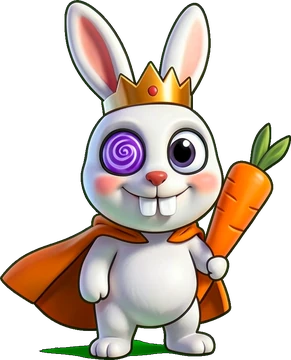
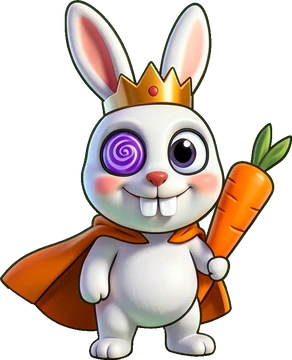
alfa 4a9517f: Rumble v2: los dibujos de las cartas, todos a la misma altura y centrados; Crazy

diff --git a/alfa/index.html b/alfa/index.html
@@ -12,10 +12,10 @@
 <link rel="preconnect" href="https://fonts.googleapis.com">
 <link rel="preconnect" href="https://fonts.gstatic.com" crossorigin>
 <link rel="stylesheet" href="https://fonts.googleapis.com/css2?family=Baloo+2:wght@600;700;800&family=Luckiest+Guy&display=swap">
-<link rel="stylesheet" href="core/css/base.css?v=5d612bd">
-<link rel="stylesheet" href="biblioteca/tienda.css?v=5d612bd">
-<link rel="stylesheet" href="novedades/ventana.css?v=5d612bd">
-<link rel="stylesheet" href="biblioteca/votos.css?v=5d612bd">
+<link rel="stylesheet" href="core/css/base.css?v=4a9517f">
+<link rel="stylesheet" href="biblioteca/tienda.css?v=4a9517f">
+<link rel="stylesheet" href="novedades/ventana.css?v=4a9517f">
+<link rel="stylesheet" href="biblioteca/votos.css?v=4a9517f">
 <style>
   /* la entrada de la web: una tarjeta por juego, con los colores y las letras de core */
   body { overflow: auto; touch-action: auto; align-items: flex-start; background-repeat: no-repeat; background-attachment: fixed; }
@@ -63,7 +63,7 @@
 </style>
 </head>
 <body>
-<script src="menu.js?v=5d612bd" data-base="" data-core="1" data-pagina=""></script>
+<script src="menu.js?v=4a9517f" data-base="" data-core="1" data-pagina=""></script>
 <div class="nov-fondo" id="novedades" hidden>
   <div class="nov-caja" role="dialog" aria-modal="true" aria-labelledby="nov-titulo">
     <div class="nov-cabeza"><h2 class="ol" id="nov-titulo">NOVEDADES</h2><p id="nov-sub"></p></div>
@@ -372,8 +372,8 @@
   </section>
   <p class="note" id="pie-fansof">Fans Of™ · © 2026 Arkioner y Pepins · MicroBlizz · Todos los derechos reservados</p>
 </main>
-<script src="core/js/nucleo.js?v=0-a1082.5d612bd"></script>
-<script src="core/js/novedades.js?v=5d612bd"></script>
+<script src="core/js/nucleo.js?v=0-a1083.4a9517f"></script>
+<script src="core/js/novedades.js?v=4a9517f"></script>
 <script>
 // La cuenta de la web es la misma de los juegos (core/js/sistema/cuenta.js, mismo navegador = misma sesión). Aquí no hay partida que subir.
 const AJUSTES = { id: 'web', guardado: 'fansof-web' }, SAVE_KEY = AJUSTES.guardado, SAVE = {};
@@ -382,7 +382,7 @@ const HOOKS = {};
 function hook(name, fn) { (HOOKS[name] = HOOKS[name] || []).push(fn); }
 function fire(name, ...a) { let out = ''; for (const fn of HOOKS[name] || []) { const r = fn(...a); if (typeof r === 'string') out += r; } return out; }
 </script>
-<script src="core/js/sistema/cuenta.js?v=5d612bd"></script>
+<script src="core/js/sistema/cuenta.js?v=4a9517f"></script>
 <script>NUCLEO.idiomaSolo({ en: ['core/idioma/en-raiz.js', 'novedades/en.js', 'biblioteca/en.js','games/rumble/idioma/en-7.js', 'games/td/idioma/en-2.js', 'games/survivors/idioma/en.js', 'games/crush/idioma/en-raiz.js', 'games/jump/idioma/en-raiz.js', 'games/taxi/idioma/en-raiz.js', 'games/dark/idioma/en-raiz.js', 'games/nova/idioma/en-raiz.js', 'games/nova/idioma/en-raiz-2.js', 'demos/beams/idioma/en-raiz.js', 'demos/snakes/idioma/en-raiz.js', 'demos/merge/idioma/en-raiz.js', 'demos/swipe/idioma/en-raiz.js', 'demos/pop/idioma/en-raiz.js', 'demos/vikings/idioma/en-raiz.js', 'demos/goose/idioma/en-raiz.js', 'demos/asalto/idioma/en-raiz.js', 'demos/auto/idioma/en-raiz.js', 'demos/shelter/idioma/en-raiz.js', 'demos/soccer/idioma/en-raiz.js', 'demos/air/idioma/en-raiz.js', 'demos/basement/idioma/en-raiz.js', 'demos/zombies/idioma/en-raiz.js', 'games/island/idioma/en-raiz.js', 'demos/rumble-3d/idioma/en-raiz.js', 'demos/roguelite/idioma/en-raiz.js', 'demos/tactics-advance/idioma/en-raiz.js', 'games/rouflage/idioma/en-raiz.js', 'demos/dungeons/idioma/en-raiz.js', 'games/karts/idioma/en-raiz.js', 'demos/recruit/idioma/en-raiz.js', 'demos/terminal-shock/idioma/en-raiz.js', 'games/ratkov/idioma/en-raiz.js'] })</script>
 <script>
 // La versión y las novedades salen de los archivos de cada juego, así que esta página nunca se queda atrás.
@@ -408,14 +408,14 @@ const fail = id => () => {
 };
 
 </script>
-<script src="core/js/proximamente.js?v=5d612bd"></script>
-<script src="novedades/ventana.js?v=5d612bd"></script>
-<script src="biblioteca/tienda.js?v=5d612bd"></script>
-<script src="core/js/sistema/beta.js?v=5d612bd"></script>
-<script src="biblioteca/cuenta-web.js?v=5d612bd"></script>
-<script src="biblioteca/votos.js?v=5d612bd"></script>
-<script src="biblioteca/alfa.js?v=5d612bd"></script>
-<script src="core/js/sistema/analitica.js?v=5d612bd"></script>
-<script src="pie.js?v=5d612bd" defer></script>
+<script src="core/js/proximamente.js?v=4a9517f"></script>
+<script src="novedades/ventana.js?v=4a9517f"></script>
+<script src="biblioteca/tienda.js?v=4a9517f"></script>
+<script src="core/js/sistema/beta.js?v=4a9517f"></script>
+<script src="biblioteca/cuenta-web.js?v=4a9517f"></script>
+<script src="biblioteca/votos.js?v=4a9517f"></script>
+<script src="biblioteca/alfa.js?v=4a9517f"></script>
+<script src="core/js/sistema/analitica.js?v=4a9517f"></script>
+<script src="pie.js?v=4a9517f" defer></script>
 </body>
 </html>

diff --git a/alfa/demos/rumble-v2/js/arte-v2.js b/alfa/demos/rumble-v2/js/arte-v2.js
@@ -56,17 +56,32 @@ const V2 = (() => {
 
   // cartas, retratos y pantalla de título: si hay imagen, se dibuja la imagen a la misma altura
   const drawVectorOriginal = drawVector;
+  // la parte con dibujo de una imagen (sin el aire transparente de alrededor), en sus píxeles; se calcula una vez
+  const cajas = new WeakMap();
+  function cajaVisible(img) {
+    if (cajas.has(img)) return cajas.get(img);
+    const w = img.width, h = img.height, cv = document.createElement('canvas'); cv.width = w; cv.height = h;
+    const x = cv.getContext('2d'); x.drawImage(img, 0, 0); const a = x.getImageData(0, 0, w, h).data;
+    let x0 = w, y0 = h, x1 = -1, y1 = -1;
+    for (let j = 0; j < h; j++) for (let i = 0; i < w; i++) if (a[(j * w + i) * 4 + 3] > 24) { if (i < x0) x0 = i; if (i > x1) x1 = i; if (j < y0) y0 = j; if (j > y1) y1 = j; }
+    const caja = x1 < 0 ? { x: 0, y: 0, w, h } : { x: x0, y: y0, w: x1 - x0 + 1, h: y1 - y0 + 1 };
+    cajas.set(img, caja); return caja;
+  }
+  // un dibujo pintado, de pie en (x, y) y centrado: todos con la misma altura h para que ninguno salga diminuto ni cortado
+  // (los muy anchos, como la mechavaca, se encogen para no salirse por los lados)
+  function dibujaAjustado(c, img, x, y, h, flip) {
+    const b = cajaVisible(img), k = Math.min(h / b.h, (h * CARTA_ANCHO_MAX) / b.w);
+    c.save(); c.imageSmoothingQuality = 'high'; c.translate(x, y); c.scale(flip, 1);
+    c.drawImage(img, b.x, b.y, b.w, b.h, -b.w * k / 2, -b.h * k, b.w * k, b.h * k); c.restore();
+  }
+  const CARTA_ANCHO_MAX = 1.35;   // ancho máximo del dibujo respecto a su alto
   drawVector = function (c, key, x, y, h, flip = 1) {
     const fr = IMG['frente/' + key];
-    if (fr) {   // de frente: centrado en x, de pie en y, sin voltear (aunque el original lo volteara)
-      const ih = h * 1.08, iw = fr.width * ih / fr.height;
-      c.save(); c.imageSmoothingQuality = 'high'; c.drawImage(fr, x - iw / 2, y - ih, iw, ih); c.restore();
-      return;
-    }
+    if (fr) return dibujaAjustado(c, fr, x, y, h, 1);   // de frente: centrado y sin voltear (aunque el original lo volteara)
     const sp = SPR[key];
     if (!sp || !sp.v2) return drawVectorOriginal(c, key, x, y, h, flip);
-    const top = TYPES[key] ? TYPES[key].top : TOPS[key];
-    const sc = h / (top || sp.ay);
+    if (TYPES[key]) return dibujaAjustado(c, sp.c, x, y, h, flip);   // personajes: la misma altura para todos
+    const top = TOPS[key], sc = h / (top || sp.ay);
     c.save(); c.translate(x, y); c.scale(sc * flip, sc); c.drawImage(sp.c, -sp.ax, -sp.ay, sp.wd, sp.ht); c.restore();
   };
 
@@ -107,5 +122,5 @@ const V2 = (() => {
   pideFondo('animales|mb');
   carga('puente', () => { if (typeof READY !== 'undefined' && READY) BRIDGE_LAYER = buildBridges(); });
 
-  return { SPRITES, FONDOS, IMG };
+  return { SPRITES, FONDOS, IMG, dibujaAjustado };
 })();

diff --git a/alfa/demos/rumble-v2/js/animar-v2.js b/alfa/demos/rumble-v2/js/animar-v2.js
@@ -94,14 +94,18 @@ const V2A = (() => {
     }
   };
 
-  // cartas, retratos y título: el primer fotograma del quieto mirando a la derecha
-  const drawVectorAntes = drawVector;
+  // cartas, retratos y título: el retrato de frente si lo tiene (lo pinta arte-v2.js); si no, el primer fotograma del quieto,
+  // ajustado como los demás (misma altura, centrado: V2.dibujaAjustado)
+  const drawVectorAntes = drawVector, marco = {};
   drawVector = function (c, key, x, y, h, flip = 1) {
     const D = V2_ANIM[key];
-    if (!D || !HOJA[key]) return drawVectorAntes(c, key, x, y, h, flip);
-    const top = TYPES[key] ? TYPES[key].top : TOPS[key], k = h / top * escala(key, D), lado = flip < 0 ? 'izq' : 'der';
-    const [cw, ch] = D.celda, [px, py] = D.pies[lado] || D.pies.der, f = fila(D, lado, 'quieto');
-    c.drawImage(HOJA[key], 0, f * ch, cw, ch, x - px * k, y - py * k, cw * k, ch * k);
+    if (!D || !HOJA[key] || V2.IMG['frente/' + key]) return drawVectorAntes(c, key, x, y, h, flip);
+    const lado = flip < 0 ? 'izq' : 'der', id = key + '-' + lado;
+    if (!marco[id]) {
+      const [cw, ch] = D.celda, cv = document.createElement('canvas'); cv.width = cw; cv.height = ch;
+      cv.getContext('2d').drawImage(HOJA[key], 0, fila(D, lado, 'quieto') * ch, cw, ch, 0, 0, cw, ch); marco[id] = cv;
+    }
+    V2.dibujaAjustado(c, marco[id], x, y, h, 1);
   };
 
   const ver = '?v=' + encodeURIComponent(NUCLEO.version || '0');

diff --git a/alfa/games/rouflage/index.html b/alfa/games/rouflage/index.html
@@ -10,7 +10,7 @@
 <link rel="preconnect" href="https://fonts.googleapis.com">
 <link rel="preconnect" href="https://fonts.gstatic.com" crossorigin>
 <link rel="stylesheet" href="https://fonts.googleapis.com/css2?family=Baloo+2:wght@600;700;800&family=Luckiest+Guy&display=swap">
-<script src="../../core/js/nucleo.js?v=0.2.75-a1082.5d612bd"></script>
+<script src="../../core/js/nucleo.js?v=0.2.75-a1083.4a9517f"></script>
 <script>NUCLEO.estilos('../../core/css/base.css', '../../core/css/menus.css', '../../core/css/menus-extra.css')</script>
 <script>NUCLEO.estilos('estilo.css', 'estilo-taller.css', 'estilo-pantallas.css', 'estilo-pvp.css', 'estilo-armario.css', 'estilo-menus.css', 'estilo-misiones.css', 'estilo-escenario.css', 'estilo-votos.css', 'estilo-gacha.css', 'estilo-compra.css', 'estilo-fin.css', 'estilo-talentos.css', 'estilo-chat.css', 'estilo-titulo.css', 'estilo-tienda.css', 'estilo-barras.css', 'estilo-tarjetas.css', 'estilo-barra.css', 'estilo-sala-viva.css', 'estilo-obra.css', 'estilo-ayuda.css', 'estilo-pintura.css', 'estilo-carga.css')</script>      <!-- la intro, la última: pisa el #carga de estilo.css (antes iba en línea dentro de #carga) -->
 </head>

diff --git a/alfa/demos/rumble-v2/index.html b/alfa/demos/rumble-v2/index.html
@@ -18,7 +18,7 @@
 <!-- core/js/nucleo.js carga lo común y el juego. LA VERSIÓN SE ESCRIBE SOLO AQUÍ, en su ?v= -->
 <!-- GENERADO por herramientas/rumble_v2.py desde games/rumble/index.html: no editar a mano -->
 <script>try { const u = new URL(location.href); if (u.searchParams.get('nube') !== '0') { u.searchParams.set('nube', '0'); history.replaceState(null, '', u); } } catch (e) { /* sin dirección */ }</script>
-<script src="../../core/js/nucleo.js?v=0.9.166-a1082.5d612bd"></script>
+<script src="../../core/js/nucleo.js?v=0.9.166-a1083.4a9517f"></script>
 <script>NUCLEO.estilos('../../core/css/menus.css', '../../games/rumble/css/estilos-partida.css', '../../games/rumble/css/estilos-extra.css', '../../games/rumble/css/arena.css', '../../core/css/biblioteca.css', '../../games/rumble/css/facciones-y-jefes.css', '../../core/css/clasificacion.css', '../../games/rumble/css/frases.css', '../../games/rumble/css/mitica.css', '../../games/rumble/css/paletas.css')</script>
 
 </head>

diff --git a/alfa/games/karts/index.html b/alfa/games/karts/index.html
@@ -8,7 +8,7 @@
 <meta name="description" content="Fans of Karts (juego): carreras de karts en pixel art de consola portátil con los líderes de Fans of Rumble. Tres pistas, seis pilotos, objetos con mala idea y Microblizz, que ha comprado la carrera.">
 <link rel="icon" type="image/png" href="img/favicon.png">
 <link rel="apple-touch-icon" href="img/icon-192.png">
-<script src="../../core/js/nucleo.js?v=0.7.24-a1082.5d612bd"></script>
+<script src="../../core/js/nucleo.js?v=0.7.24-a1083.4a9517f"></script>
 <script>NUCLEO.estilos('../../core/css/base.css', '../../core/css/menus.css', '../../core/css/menus-tienda.css', '../../core/css/menus-extra.css', 'css/tienda.css', 'css/pvp.css')</script>
 <link rel="stylesheet" href="https://fonts.googleapis.com/css2?family=Baloo+2:wght@600;700;800&family=Luckiest+Guy&display=swap">
 <style>

diff --git a/alfa/games/dark/index.html b/alfa/games/dark/index.html
@@ -12,7 +12,7 @@
 <link rel="stylesheet" href="https://fonts.googleapis.com/css2?family=Baloo+2:wght@600;700;800&family=Luckiest+Guy&family=Press+Start+2P&family=Pixelify+Sans:wght@400;600;700&display=swap">
 <link rel="stylesheet" href="css/dark.css?v=0.2.4">
 <!-- Prototipo: no usa NUCLEO (tiene su propia partida guardada). Carga de core el arte, la música, los efectos y las cifras del Rumble.
-     VERSIÓN para desplegar.py (que la busca así): nucleo.js?v=0.2.7-a1082.5d612bd' (aquí solo se anota; súbela junto al ?v= de los scripts). -->
+     VERSIÓN para desplegar.py (que la busca así): nucleo.js?v=0.2.7-a1083.4a9517f' (aquí solo se anota; súbela junto al ?v= de los scripts). -->
 </head>
 <body>
 <canvas id="cv" aria-label="Mazmorra"></canvas>

diff --git a/alfa/games/rumble/index.html b/alfa/games/rumble/index.html
@@ -16,7 +16,7 @@
 <link rel="preconnect" href="https://fonts.gstatic.com" crossorigin>
 <link rel="stylesheet" href="https://fonts.googleapis.com/css2?family=Baloo+2:wght@600;700;800&family=Luckiest+Guy&display=swap">
 <!-- core/js/nucleo.js carga lo común y el juego. LA VERSIÓN SE ESCRIBE SOLO AQUÍ, en su ?v= -->
-<script src="../../core/js/nucleo.js?v=0.9.167-a1082.5d612bd"></script>
+<script src="../../core/js/nucleo.js?v=0.9.167-a1083.4a9517f"></script>
 <script>NUCLEO.estilos('../../core/css/menus.css', 'css/estilos-partida.css', 'css/estilos-extra.css', 'css/arena.css', '../../core/css/biblioteca.css', 'css/facciones-y-jefes.css', '../../core/css/clasificacion.css', 'css/frases.css', 'css/mitica.css', 'css/paletas.css')</script>
 
 </head>

diff --git a/alfa/games/jump/index.html b/alfa/games/jump/index.html
@@ -12,7 +12,7 @@
 <link rel="preconnect" href="https://fonts.gstatic.com" crossorigin>
 <link rel="stylesheet" href="https://fonts.googleapis.com/css2?family=Baloo+2:wght@600;700;800&family=Luckiest+Guy&display=swap">
 <!-- ?v= es la versión del juego (la misma en la web y en la app): súbela al publicar y pon su entrada en js/novedades.js -->
-<script src="../../core/js/nucleo.js?v=0.3.25-a1082.5d612bd"></script>
+<script src="../../core/js/nucleo.js?v=0.3.25-a1083.4a9517f"></script>
 <script>NUCLEO.estilos('../../core/css/base.css', '../../core/css/menus.css')</script>
 <style>
 /* Fans of Jump: un solo canvas a la resolución real de la pantalla, con los dibujos 3D. El mundo mide unos 200 de ancho y se

diff --git a/alfa/games/decks/index.html b/alfa/games/decks/index.html
@@ -15,7 +15,7 @@
 <link rel="preconnect" href="https://fonts.gstatic.com" crossorigin>
 <link rel="stylesheet" href="https://fonts.googleapis.com/css2?family=Baloo+2:wght@600;700;800&family=Luckiest+Guy&display=swap">
 <!-- core/js/nucleo.js carga lo común y el juego. LA VERSIÓN SE ESCRIBE SOLO AQUÍ, en su ?v= -->
-<script src="../../core/js/nucleo.js?v=0.2.30-a1082.5d612bd"></script>
+<script src="../../core/js/nucleo.js?v=0.2.30-a1083.4a9517f"></script>
 <script>NUCLEO.estilos('../../core/css/base.css', '../../core/css/menus.css', 'css/decks.css', 'css/decks-reunion.css', 'css/decks-anim.css', 'css/decks-campana.css', 'css/decks-lideres.css')</script>
 </head>
 <body>

diff --git a/alfa/demos/zombies/index.html b/alfa/demos/zombies/index.html
@@ -11,7 +11,7 @@
 <link rel="stylesheet" href="https://fonts.googleapis.com/css2?family=VT323&family=Russo+One&family=Permanent+Marker&family=Special+Elite&display=swap">
 <script src="https://cdnjs.cloudflare.com/ajax/libs/three.js/r128/three.min.js"></script>
 <!-- ?v= es la versión de la demo: súbela al publicar -->
-<script src="../../core/js/nucleo.js?v=0.14.0-a1082.5d612bd"></script>
+<script src="../../core/js/nucleo.js?v=0.14.0-a1083.4a9517f"></script>
 <script>NUCLEO.estilos('../../core/css/base.css', '../../core/css/menus.css')</script>
 <link rel="stylesheet" href="estilo.css?v=0.14.0">
 <link rel="stylesheet" href="estilo-menus.css?v=0.14.0">

diff --git a/alfa/games/ratkov/index.html b/alfa/games/ratkov/index.html
@@ -13,7 +13,7 @@
 <link rel="preconnect" href="https://fonts.gstatic.com" crossorigin>
 <link rel="stylesheet" href="https://fonts.googleapis.com/css2?family=VT323&family=Russo+One&display=swap">
 <script src="https://cdnjs.cloudflare.com/ajax/libs/three.js/r128/three.min.js"></script>
-<script src="../../core/js/nucleo.js?v=0.2.38-a1082.5d612bd"></script>
+<script src="../../core/js/nucleo.js?v=0.2.38-a1083.4a9517f"></script>
 <script>NUCLEO.estilos('../../core/css/base.css', '../../core/css/menus.css')</script>
 <link rel="stylesheet" href="estilo.css?v=0.2.3">
 <link rel="stylesheet" href="estilo-refugio.css?v=0.2.3">
